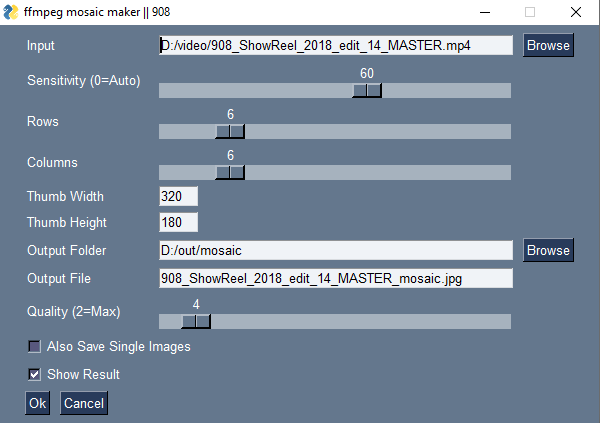
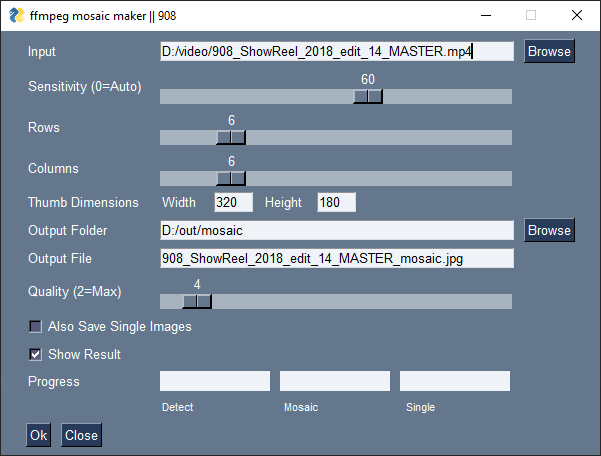
progress bars, ffmpeg running async, bugfixes

diff --git a/mosaicmaker.py b/mosaicmaker.py
@@ -10,18 +10,23 @@ import argparse
 import PySimpleGUI as sg
 from pprint import pprint
 
+_WINDOW = None
+
 def main():
+    global _WINDOW
+
     parser = argparse.ArgumentParser()
-    parser.add_argument('-i', '--input', dest="in_filename")
-    parser.add_argument('-tw', '--width', dest="thumb_w", default="160")
-    parser.add_argument('-th', '--height', dest="thumb_h", default="120")
-    parser.add_argument('-r', '--rows', dest="rows", default="10")
-    parser.add_argument('-c', '--cols', dest="columns", default="6")
-    parser.add_argument('-o', '--output', dest="out_filename", default="preview.jpg")
-    parser.add_argument('-s', '--sensitivity', dest="sensitivity", default="0.4")
-    parser.add_argument('-k', '--keep', dest="keep", default="False")
-    parser.add_argument('-q', '--quality', dest="quality", default=4)
-    parser.add_argument('--show', dest="show", default="False")
+    parser.add_argument('-i', '--input', dest="in_filename", help="Input video file (any file format that ffmpeg can handle)")
+    parser.add_argument('-tw', '--width', dest="thumb_w", default=320, help="Width of each mosaic piece")
+    parser.add_argument('-th', '--height', dest="thumb_h", default=180, help="Height of each mosaic piece")
+    parser.add_argument('-r', '--rows', dest="rows", default=6, help="Number of rows in the mosaic")
+    parser.add_argument('-c', '--cols', dest="columns", default=6, help="Number of columns in the mosaic")
+    parser.add_argument('-o', '--output', dest="out_filename", default=os.path.join(os.getcwd(), "mosaic.jpg"), help="Output filename (extension sets encoder, if in doubt use .jpg)")
+    parser.add_argument('-s', '--sensitivity', dest="sensitivity", default=0.6, help="Set scene detection sensitivity, 0 means scene detection is off.")
+    parser.add_argument('-k', '--keep', dest="keep", default=False, help="Keep the 'mosaic pieces' as seperate full res files as well")
+    parser.add_argument('-q', '--quality', dest="quality", default=4, help="Image encoder quality, from 2-31 for Jpeg. 2-5 recommended.")
+    parser.add_argument('--show', dest="show", default=True, help="Open resulting mosaic in default viewer")
+    parser.add_argument('--meta', dest="meta", default=False, help="Output metadata of video file")
     args = parser.parse_args()
 
     if len(sys.argv) > 1:
@@ -29,33 +34,41 @@ def main():
             print("Missing input filename (-i)")
             print("Example: python scenedetect.py -i myvideo.mp4 -o result.jpg -s 0.6 -tw 160 -th 120")
             exit
+        args.sensitivity    = str(args.sensitivity)
+        args.rows           = str(args.rows)
+        args.columns        = str(args.columns)
+        args.thumb_w        = str(args.thumb_w)
+        args.thumb_h        = str(args.thumb_h)
+        args.quality        = str(args.quality)
         processVideo(args)
 
     else:
+        pprint(args)
         layout = [
                     [sg.Text('Input', size=(15,1)), sg.In(size=(50,1), default_text="", enable_events=True, key="inputFileName"), sg.FileBrowse()],
-                    [sg.Text('Sensitivity (0=Auto)', size=(15,1)), sg.Slider(key="sensitivity",range=(0,100),default_value=60,size=(32,15),orientation='horizontal',font=('Helvetica', 10))],
-                    [sg.Text('Rows', size=(15,1)), sg.Slider(key="rows",range=(1,30),default_value=6,size=(32,15),orientation='horizontal',font=('Helvetica', 10))],
-                    [sg.Text('Columns', size=(15,1)), sg.Slider(key="columns",range=(1,30),default_value=6,size=(32,15),orientation='horizontal',font=('Helvetica', 10))],
-                    [sg.Text('Thumb Width', size=(15,1)), sg.In(key="thumbw",size=(5,1), default_text=320)],
-                    [sg.Text('Thumb Height', size=(15,1)), sg.In(key="thumbh",size=(5,1), default_text=180)],
+                    [sg.Text('Sensitivity (0=Auto)', size=(15,1)), sg.Slider(key="sensitivity",range=(0,100),default_value=(args.sensitivity*100),size=(32,15),orientation='horizontal',font=('Helvetica', 10))],
+                    [sg.Text('Rows', size=(15,1)), sg.Slider(key="rows",range=(1,30),default_value=args.rows,size=(32,15),orientation='horizontal',font=('Helvetica', 10))],
+                    [sg.Text('Columns', size=(15,1)), sg.Slider(key="columns",range=(1,30),default_value=args.columns,size=(32,15),orientation='horizontal',font=('Helvetica', 10))],
+                    [sg.Text('Thumb Dimensions', size=(15,1)),  sg.Text('Width',size=(5,1)), sg.In(key="thumbw",size=(5,1), default_text=args.thumb_w), sg.Text('Height',size=(5,1)), sg.In(key="thumbh",size=(5,1), default_text=args.thumb_h)],
                     [sg.Text('Output Folder', size=(15,1)), sg.In(size=(50,1), default_text=os.getcwd(), key="outputFolder"), sg.FolderBrowse()],
                     [sg.Text('Output File', size=(15,1)), sg.In(size=(50,1), default_text="mosaic.jpg", key="outputFileName")],
-                    [sg.Text('Quality (2=Max)', size=(15,1)), sg.Slider(key="quality",range=(2,31),default_value=4,size=(32,15),orientation='horizontal',font=('Helvetica', 10))],
-                    [sg.Checkbox('Also Save Single Images', default=False, key="keep")],
-                    [sg.Checkbox('Show Result', default=True, key="show")],
-                    [sg.Button('Ok'), sg.Button('Cancel')] ]
+                    [sg.Text('Quality (2=Max)', size=(15,1)), sg.Slider(key="quality",range=(2,31),default_value=args.quality,size=(32,15),orientation='horizontal',font=('Helvetica', 10))],
+                    [sg.Checkbox('Also Save Single Images', default=args.keep, key="keep")],
+                    [sg.Checkbox('Show Result', default=args.show, key="show")],
+                    [sg.Text('Progress', size=(15,1)), sg.ProgressBar(100, orientation='h', size=(10, 20), key='progress_detect'), sg.ProgressBar(100, orientation='h', size=(10, 20), key='progress_mosaic'), sg.ProgressBar(100, orientation='h', size=(10, 20), key='progress_single')],
+                    [sg.Text('', size=(15,1)), sg.Text('Detect', size=(18,1), font=('Helvetica', 8)), sg.Text('Mosaic', size=(18,1), font=('Helvetica', 8)), sg.Text('Single', size=(18,1), font=('Helvetica', 8))],
+                    [sg.Button('Ok', key="Ok"), sg.Button('Close')] ]
 
         # Create the Window
-        window = sg.Window('ffmpeg mosaic maker || 908', layout)
+        _WINDOW = sg.Window('ffmpeg mosaic maker || 908', layout)
         # Event Loop to process "events" and get the "values" of the inputs
         while True:
-            event, values = window.read()
-            # print(event, values)
-            if event in (None, 'Cancel'):	# if user closes window or clicks cancel
-                window.close()
+            event, values = _WINDOW.read()
+
+            if event in (None, 'Close'):	# if user closes window or clicks Close
+                _WINDOW.close()
                 return
-            #print('You entered ', values)
+
             if event == "Ok":
                 args.in_filename    = values["inputFileName"]
                 args.sensitivity    = str(float(values["sensitivity"]) / 100.0) if values["sensitivity"] > 0 else None
@@ -78,9 +91,9 @@ def main():
                     processVideo(args)
             
             elif event == "inputFileName":
-                window["outputFileName"].update(buildOutputFilename(values["inputFileName"], values["outputFileName"]))
+                _WINDOW["outputFileName"].update(buildOutputFilename(values["inputFileName"], values["outputFileName"]))
 
-        window.close()
+        _WINDOW.close()
 
 def buildOutputFilename(s, previous):
     base, filename = os.path.split(s)
@@ -102,11 +115,89 @@ def frameListToString(frameList):
 def getBasicFrameList(every, imgcount):
     return [(every*i) for i in range(imgcount)]
 
+
+def processSceneDetectOutput(p, framerate):
+    frameList = []
+    sceneDetectFrameTimePattern = re.compile(r'(?<=pts_time:)\d*.\d*')
+
+    while True:
+        in_bytes = p.stderr.read(256)
+        if not in_bytes:
+            break
+        line = in_bytes.decode("utf-8")
+        reResult = re.search(sceneDetectFrameTimePattern, line)
+        if reResult is not None:
+            frameTime = float(reResult.group(0))
+            frameList.append(int(frameTime * framerate))
+            print(f"Detected scene change at {frameTime}s")
+            if _WINDOW:
+                _WINDOW["progress_detect"].UpdateBar(int(frameTime * framerate))
+                _WINDOW.refresh()
+    
+    return frameList
+
+def processEncodingOutput(pMosaic, pSingle=None, framerate=25):
+    framePattern = re.compile(r'(frame=\s*)(\d*)')
+    ptsTimePattern = re.compile(r'(?<=pts_time:)\d*.\d*')
+    
+    someCounter = 0
+    
+    while True:
+        in_bytes_single = None
+        in_bytes_mosaic = None
+
+        if pMosaic is not None:
+            in_bytes_mosaic = pMosaic.stderr.read(256)
+        if pSingle is not None:
+            in_bytes_single = pSingle.stderr.read(256)
+
+        if not in_bytes_mosaic and not in_bytes_single:
+            break
+
+        if in_bytes_mosaic is not None:
+            line_mosaic = in_bytes_mosaic.decode("utf-8")
+            reResult = re.search(framePattern, line_mosaic)
+            # pprint(reResult)
+            if reResult is not None:
+                try:
+                    frame = int(reResult.group(2))
+                    if frame == 0:
+                        print(f"Mosaic: Processing...")
+                        if _WINDOW:
+                            someCounter += 5  # we are not getting a truely usable update from ffmpeg here, so let's just move the progress along somewhat...
+                            _WINDOW["progress_mosaic"].UpdateBar(someCounter)
+                            _WINDOW.refresh()
+                    else:
+                        print(f"Mosaic: Processing Finished")
+                        if _WINDOW:
+                            _WINDOW["progress_mosaic"].UpdateBar(100)
+                            _WINDOW.refresh()
+                except:
+                    pass
+        
+        if in_bytes_single is not None:
+            line_single = in_bytes_single.decode("utf-8")
+            reResult = re.search(ptsTimePattern, line_single)
+            if reResult is not None:
+                try:
+                    frame = float(reResult.group(0))
+                    print(f"Writing single image at {frame}s")
+                    if _WINDOW:
+                        _WINDOW["progress_single"].UpdateBar(int(frameTime * framerate))
+                        _WINDOW.refresh()
+                except:
+                    pass
+
+
 def processVideo(args):
-    pprint(args)
+    if _WINDOW:
+        _WINDOW["Ok"].Update(disabled=True)
+        _WINDOW["Close"].Update(disabled=True)
+        _WINDOW.refresh()
+
     imgcount = int(args.rows) * int(args.columns)
     metadata=ffmpeg.probe(os.path.abspath(args.in_filename))
-    pprint(metadata)
+    if args.meta: pprint(metadata)
     framecount = metadata["streams"][0]["nb_frames"]
     framerate = eval(metadata["streams"][0]["avg_frame_rate"])
     every = int(int(framecount) / imgcount)
@@ -124,79 +215,86 @@ def processVideo(args):
     # Run scene detect filter over video once to find scene changes,
     # then fill up with intermediate frames if not enough to fill mosaic
     else:
-        try:
-            out, err = (
-                ffmpeg
-                .input(args.in_filename)
-                .video
-                .filter('select', 'gt(scene,' + args.sensitivity + ')')
-                .filter('showinfo')
-                .filter('null')
-                .output('-', format="null")
-                .run(capture_stdout=True, capture_stderr=True)
-            )
-            pattern = re.compile(r'(?<=pts_time:)\d*.\d*')
+        process_ffmpeg = (
+            ffmpeg
+            .input(args.in_filename)
+            .video
+            .filter('select', 'gt(scene,' + args.sensitivity + ')')
+            .filter('showinfo')
+            .filter('null')
+            .output('-', format="null")
+            .run_async(pipe_stderr=True)
+        )
+        if _WINDOW:
+            _WINDOW["progress_detect"].UpdateBar(0,framecount)
+            _WINDOW.refresh()
+        frameList = processSceneDetectOutput(process_ffmpeg, framerate)
+        if _WINDOW:
+            _WINDOW["progress_detect"].UpdateBar(framecount)
+            _WINDOW.refresh()
 
-            for line in err.decode("utf-8").split('\n'):
-                if line.startswith("[Parsed_showinfo"):
-                    reResult = re.search(pattern, line)
-                    if reResult is not None:
-                        frameTime = float(reResult.group(0))
-                        frameList.append(int(frameTime * framerate))
-
-            if len(frameList) < imgcount/2:
-                frameList = frameList + (getBasicFrameList(every, imgcount))
-                frameList.sort()
-                #frameList = frameList[len(frameList)-imgcount:]
-            elif len(frameList) < imgcount:
-                counter = 0 
-                while len(frameList) < imgcount:
-                    valA = frameList[counter]
-                    counter = (counter + 1) % len(frameList)
-                    valB = frameList[counter]
-                    if valA >= valB:
-                        valB = valA + 2
-                    frameList.insert(counter, int((valA+valB)/2.0))
-                    counter = (counter + 1) % len(frameList)
-
-        except ffmpeg.Error as e:
-                print('stdout:', e.stdout.decode('utf8'))
-                print('stderr:', e.stderr.decode('utf8'))
-                raise e
+        if len(frameList) < imgcount/2:
+            frameList = frameList + (getBasicFrameList(every, imgcount))
+            frameList.sort()
+        elif len(frameList) < imgcount:
+            counter = 0 
+            while len(frameList) < imgcount:
+                valA = frameList[counter]
+                counter = (counter + 1) % len(frameList)
+                valB = frameList[counter]
+                if valA >= valB:
+                    valB = valA + 2
+                frameList.insert(counter, int((valA+valB)/2.0))
+                counter = (counter + 1) % len(frameList)
 
     frameListString = frameListToString(frameList)
     
     # ENCODE MOSAIC (based on list of frames)
 
-    out, _ = (
+    process_mosaic = (
         ffmpeg
         .input(args.in_filename)
         .video
-        # .filter('select', 'not(mod(n,' + str(every) + '))')
         .filter('select', frameListString)
+        .filter('showinfo')
         .filter('scale', args.thumb_w, args.thumb_h)
         .filter('tile', args.columns + 'x' + args.rows)
         .output(args.out_filename, vsync=0, vframes=1, **{'qscale:v': args.quality})
         .overwrite_output()
-        .run(capture_stdout=True)
+        .run_async(pipe_stderr=True)
     )
 
     # WRITE SINGLE IMAGES (based on list of frames)
+    process_single = None
     if args.keep:
         base, filename = os.path.split(args.out_filename)
         basefile, ext = os.path.splitext(filename)
         newFilename = f"{basefile}_%05d{ext}"
         outImageName = os.path.join(base, newFilename)
 
-        out, _ = (
+        process_single = (
             ffmpeg
             .input(args.in_filename)
             .video
             .filter('select', frameListString)
+            .filter('showinfo')
             .output(outImageName, vsync=0, **{'qscale:v': args.quality})
             .overwrite_output()
-            .run(capture_stdout=False)
+            .run_async(pipe_stderr=True)
         )
+
+    if _WINDOW:
+            _WINDOW["progress_single"].UpdateBar(0,framecount)
+            _WINDOW.refresh()
+    processEncodingOutput(process_mosaic, process_single, framerate)
+    if _WINDOW:
+            _WINDOW["progress_single"].UpdateBar(framecount)
+            _WINDOW.refresh()
+
+    if _WINDOW:
+        _WINDOW["Ok"].Update(disabled=False)
+        _WINDOW["Close"].Update(disabled=False)
+        _WINDOW.refresh()
 
     if args.show:
         os.startfile(args.out_filename)
